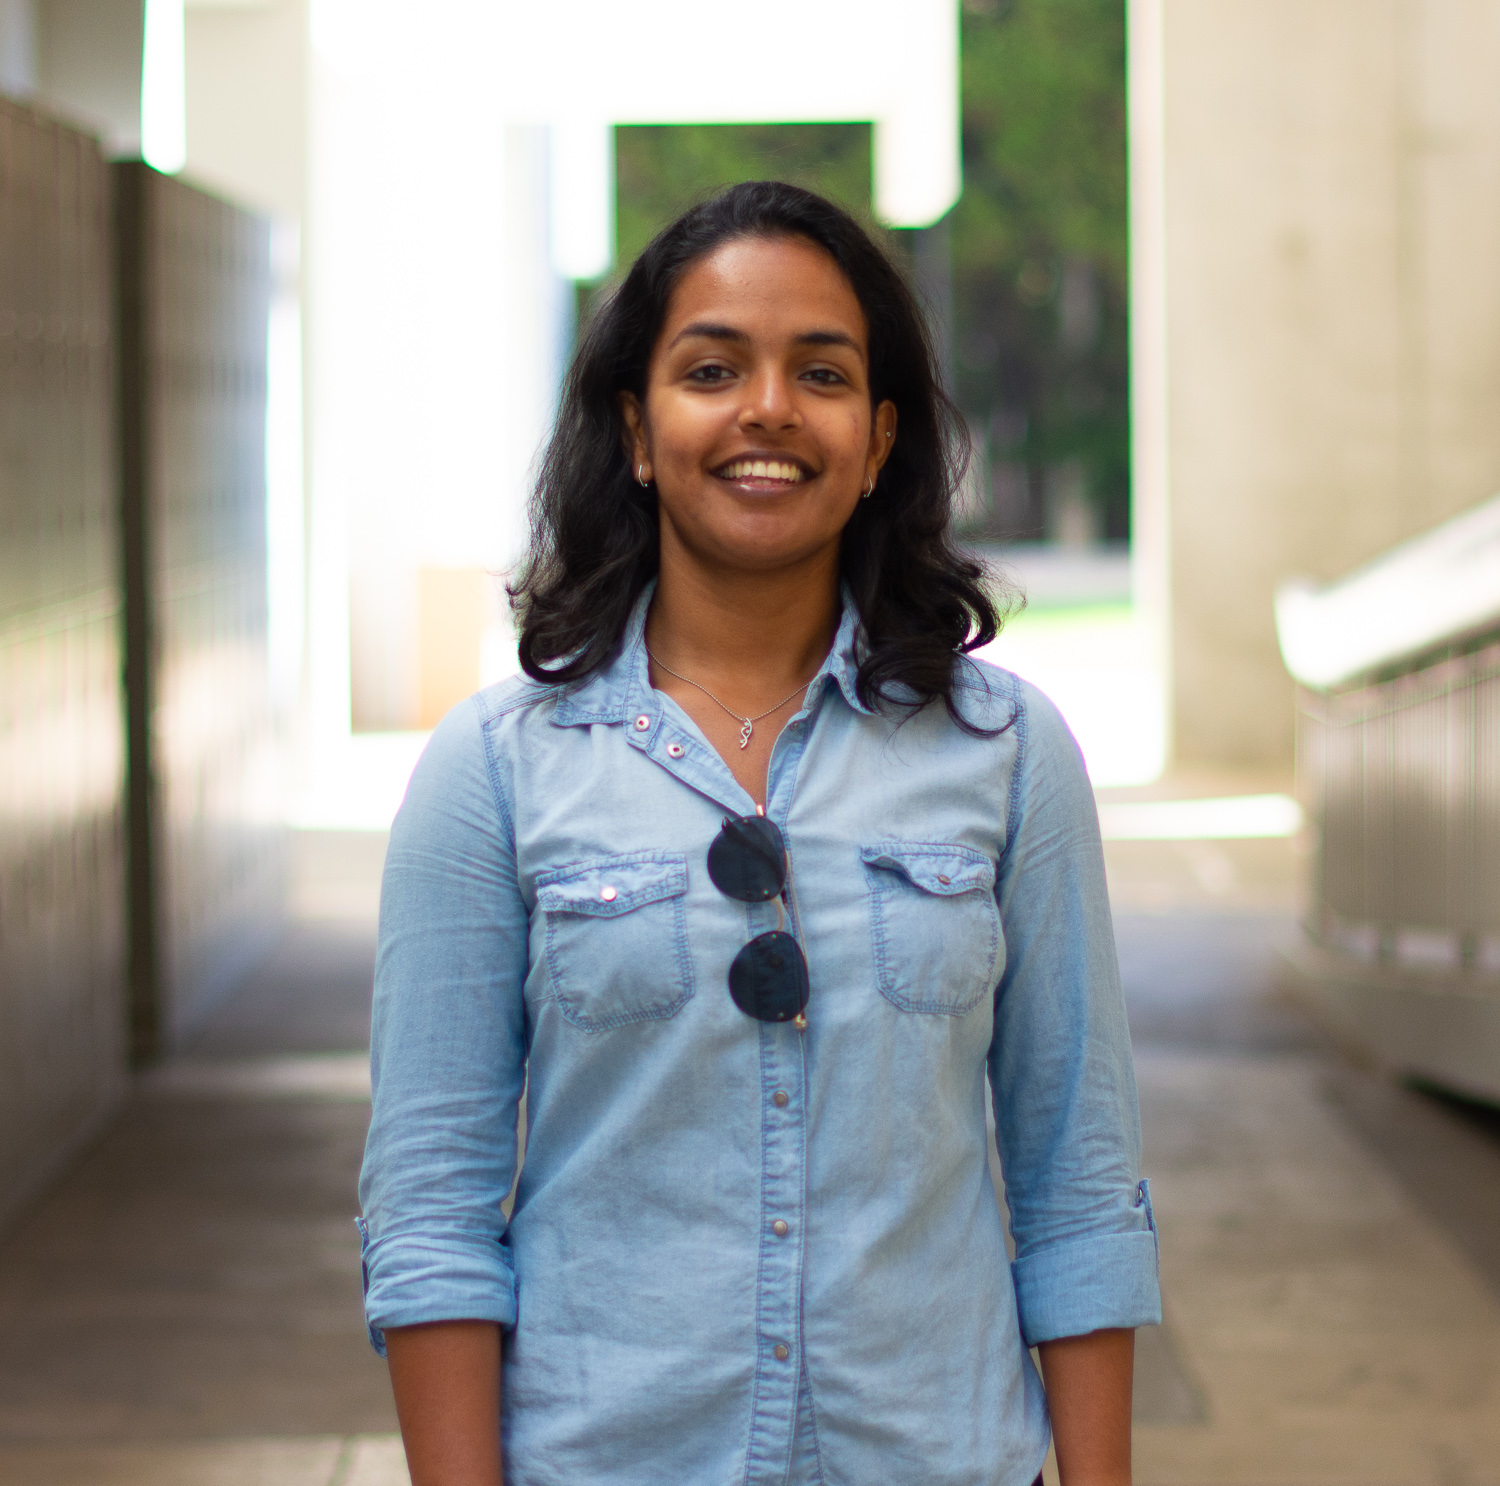
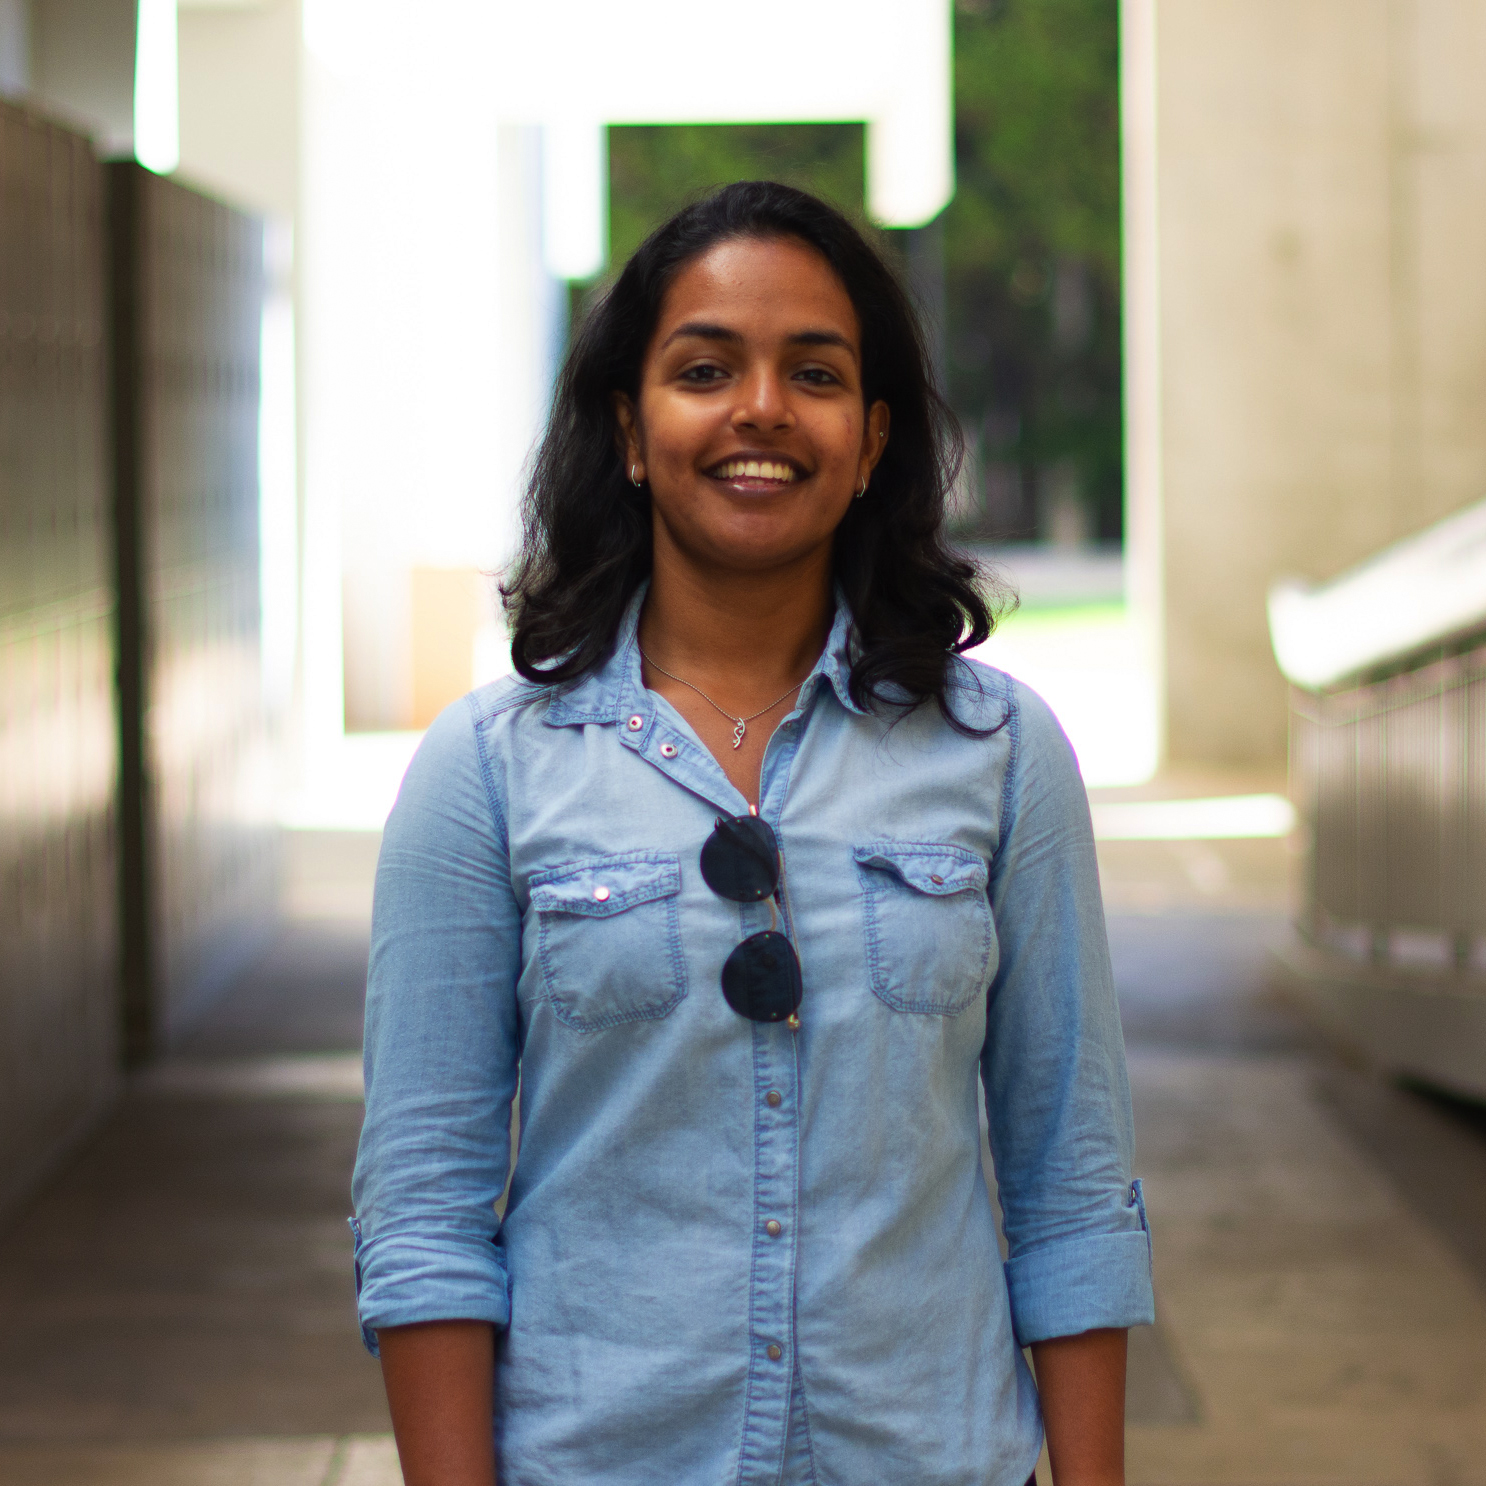
fixed pictures

diff --git a/assets/js/constants.js b/assets/js/constants.js
@@ -311,8 +311,7 @@ var piMembers = [
     major: "Psychology and Communications",
     year: "2020",
     linkedin: "https://www.linkedin.com/in/mandysantoso/",
-    email: "mandysantoso@g.ucla.edu",
-    notPictured: true
+    email: "mandysantoso@g.ucla.edu"
   },
   {
     firstname: "Annie",
@@ -344,8 +343,7 @@ var piMembers = [
     major: "Design | Media Arts",
     year: "2019",
     linkedin: "https://www.linkedin.com/in/isabella-clark-9a5296124/",
-    email: "bellaclark44@gmail.com",
-    notPictured: true
+    email: "bellaclark44@gmail.com"
   },
   {
     firstname: "Jorge",
